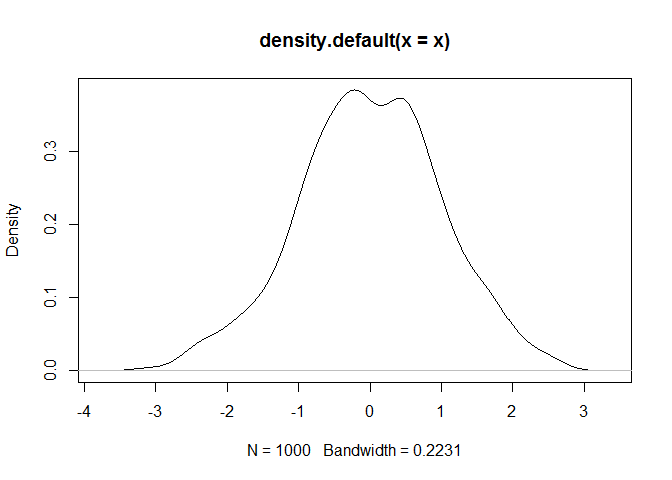
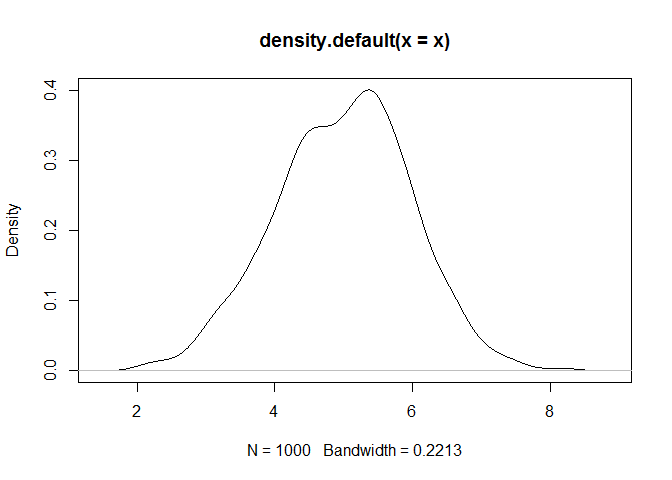
Added 5

diff --git a/R_markdown_trial.md b/R_markdown_trial.md
@@ -11,7 +11,7 @@ This is an R Markdown document. Markdown is a simple formatting syntax for autho
 When you click the **Knit** button a document will be generated that includes both content as well as the output of any embedded R code chunks within the document. You can embed an R code chunk like this:
 
 ``` r
-x <- rnorm(1000)
+x <- rnorm(1000) + 5
 ```
 
 Including Plots
